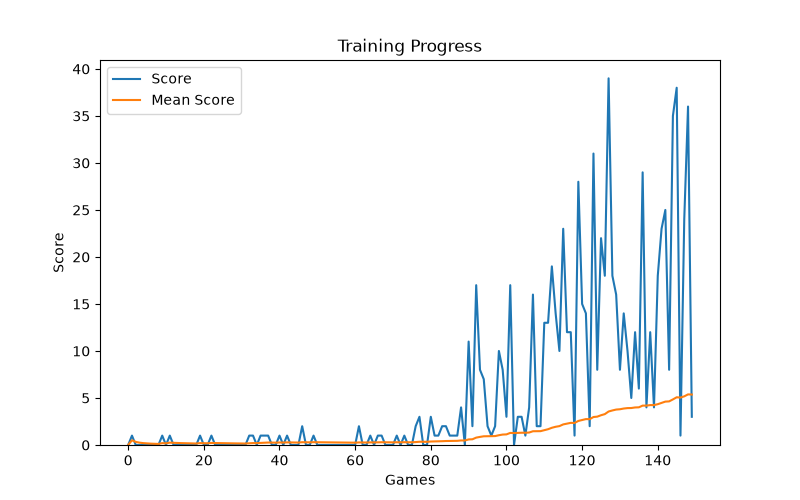
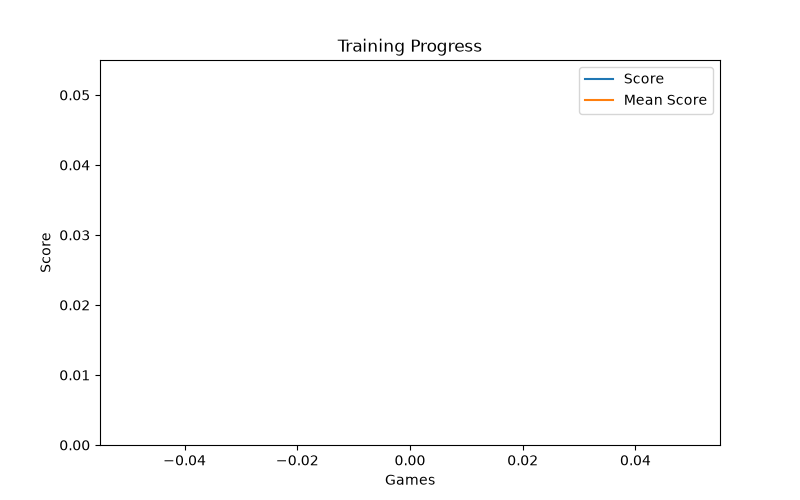
testing

diff --git a/game.py b/game.py
@@ -23,8 +23,8 @@ SPEED = 40
 
 WHITE = (255, 255, 255)
 RED = (200, 0, 0)
-BLUE1 = (0, 0, 255)
-BLUE2 = (0, 100, 255)
+BLUE1 = (72, 217, 110)
+BLUE2 = (32, 153, 64)
 BLACK = (0, 0, 0)
 
 
